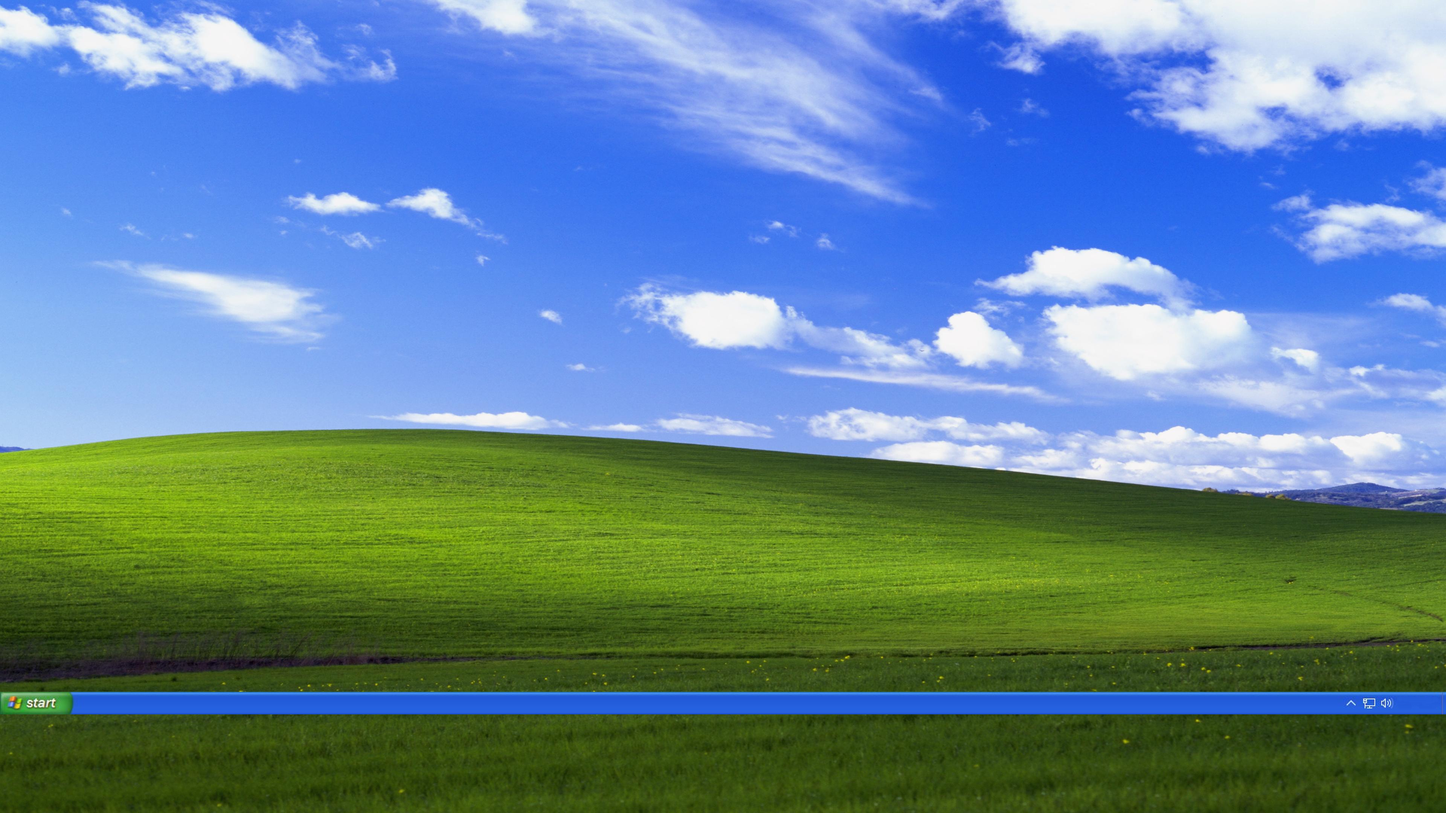
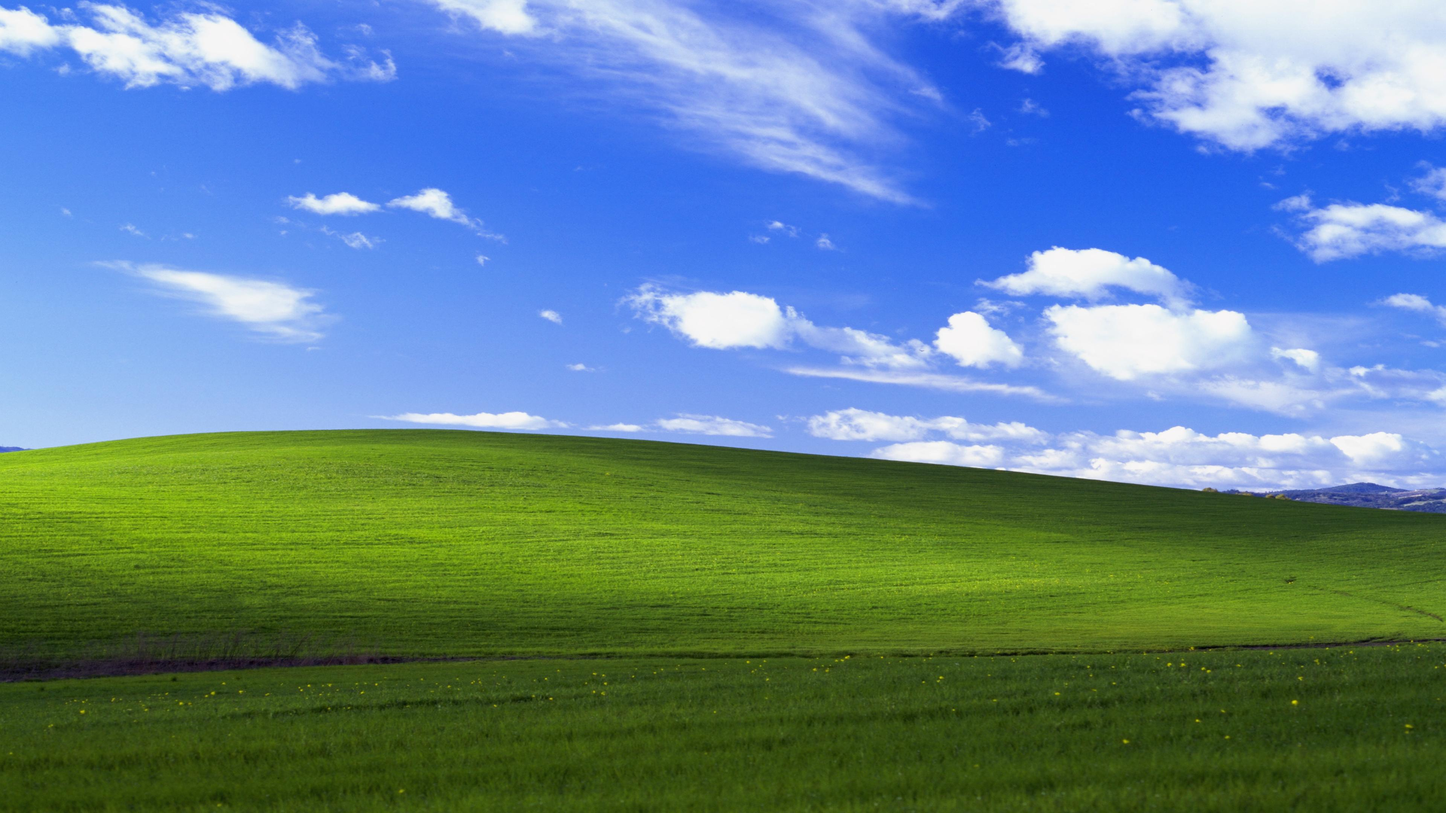
updated

Changed region(s): [[0.0, 0.8375, 1.0, 0.8995]]

diff --git a/index.html b/index.html
@@ -6,7 +6,7 @@
     <meta http-equiv="X-UA-Compatible" content="IE=edge">
     <meta name="viewport" content="width=device-width, initial-scale=1.0">
     <link rel="stylesheet" type="text/css" href="styles.css">
-    <title>WinXp-Sam</title>
+    <title>WinXp</title>
 
 </head>
 
@@ -29,7 +29,11 @@
         <div class="center-Mypc">My Computer</div>
     </div>
 
-    <p id=time>00:00</p>
+    <div class="MenuBar">
+        <img id="Menubar" src="img/windowsBarWithoutTime.jpg" alt="Menu Bar" width="100%">
+        <div id="time">00:00</div>
+    </div>
+
 
     <script src="script.js"></script>
 </body>

diff --git a/styles.css b/styles.css
@@ -26,11 +26,24 @@ body {
     -webkit-font-smoothing: none;
 }
 
+.MenuBar {
+    position: fixed;
+    overflow: hidden;
+    bottom: 0;
+    left: 0;
+    width: 100%;
+    height: 3%;
+}
+
+
 #time {
-    position: absolute;
     font-family: Tahoma;
+    position: absolute;
+    width: 100%;
+    height: 85%;
+    text-align: right;
+    bottom: 0;
+    right: 0.5%;
+    font-size: 0.9em;
     color: White;
-    font-size: 13px;
-    top: 726px;
-    left: 1490px;
 }
